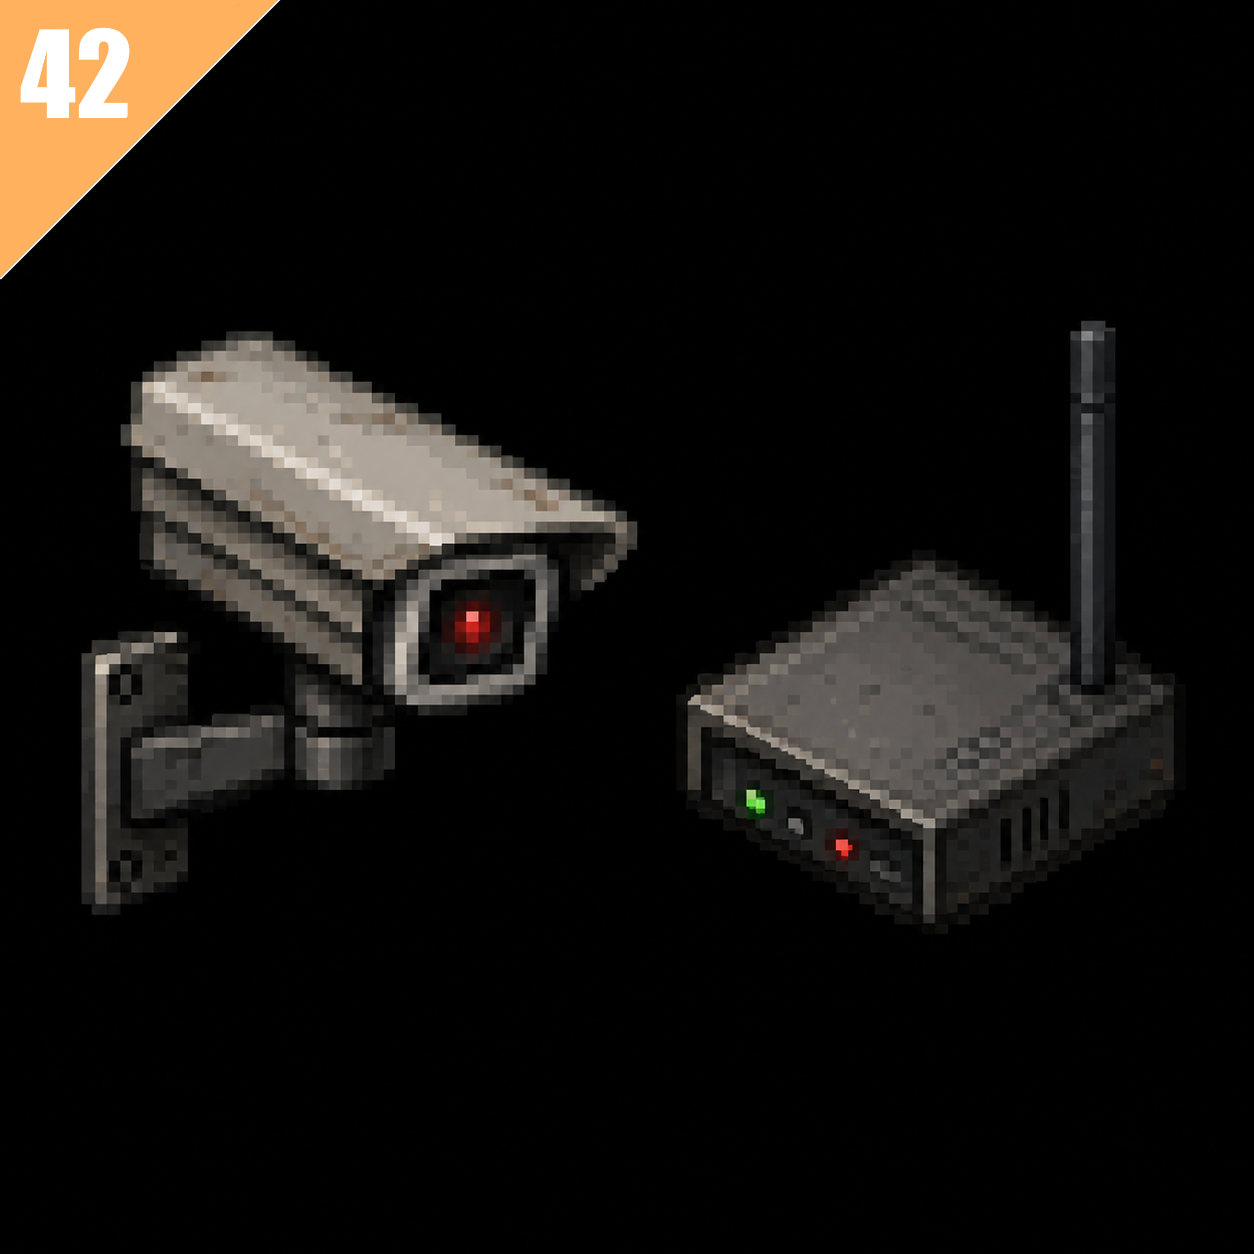
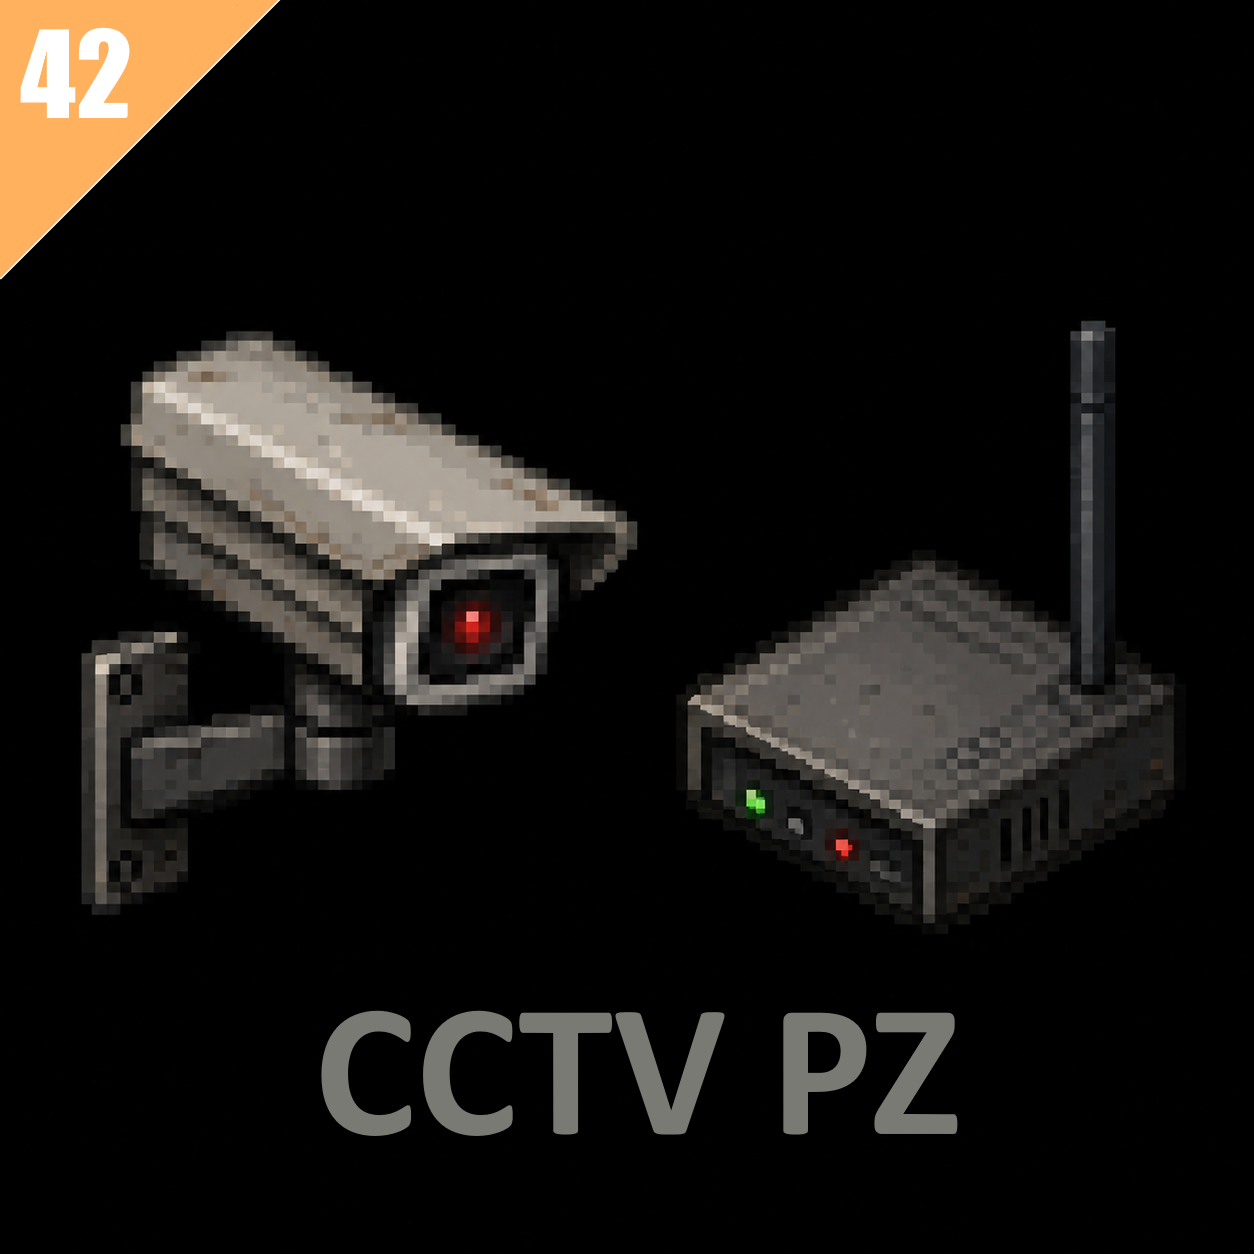
feat: relesase 0.3 done

Changed region(s): [[0.2488, 0.8086, 0.5909, 0.933], [0.622, 0.8086, 0.7775, 0.9019]]

diff --git a/README.md b/README.md
@@ -73,6 +73,7 @@
 - Разновидности камер по углу обзора и потреблению ресурсов (версия 1.0).
 - Добавление фильтров для камер (TBD)
 - Добавление ночного режима для определенных камер (версия 0.5)
+- ✅ ~~Добавление базового крафта камеры (версия 0.3)~~
 
 Подробный список изменений — в [CHANGELOG.md](CHANGELOG.md).
 
